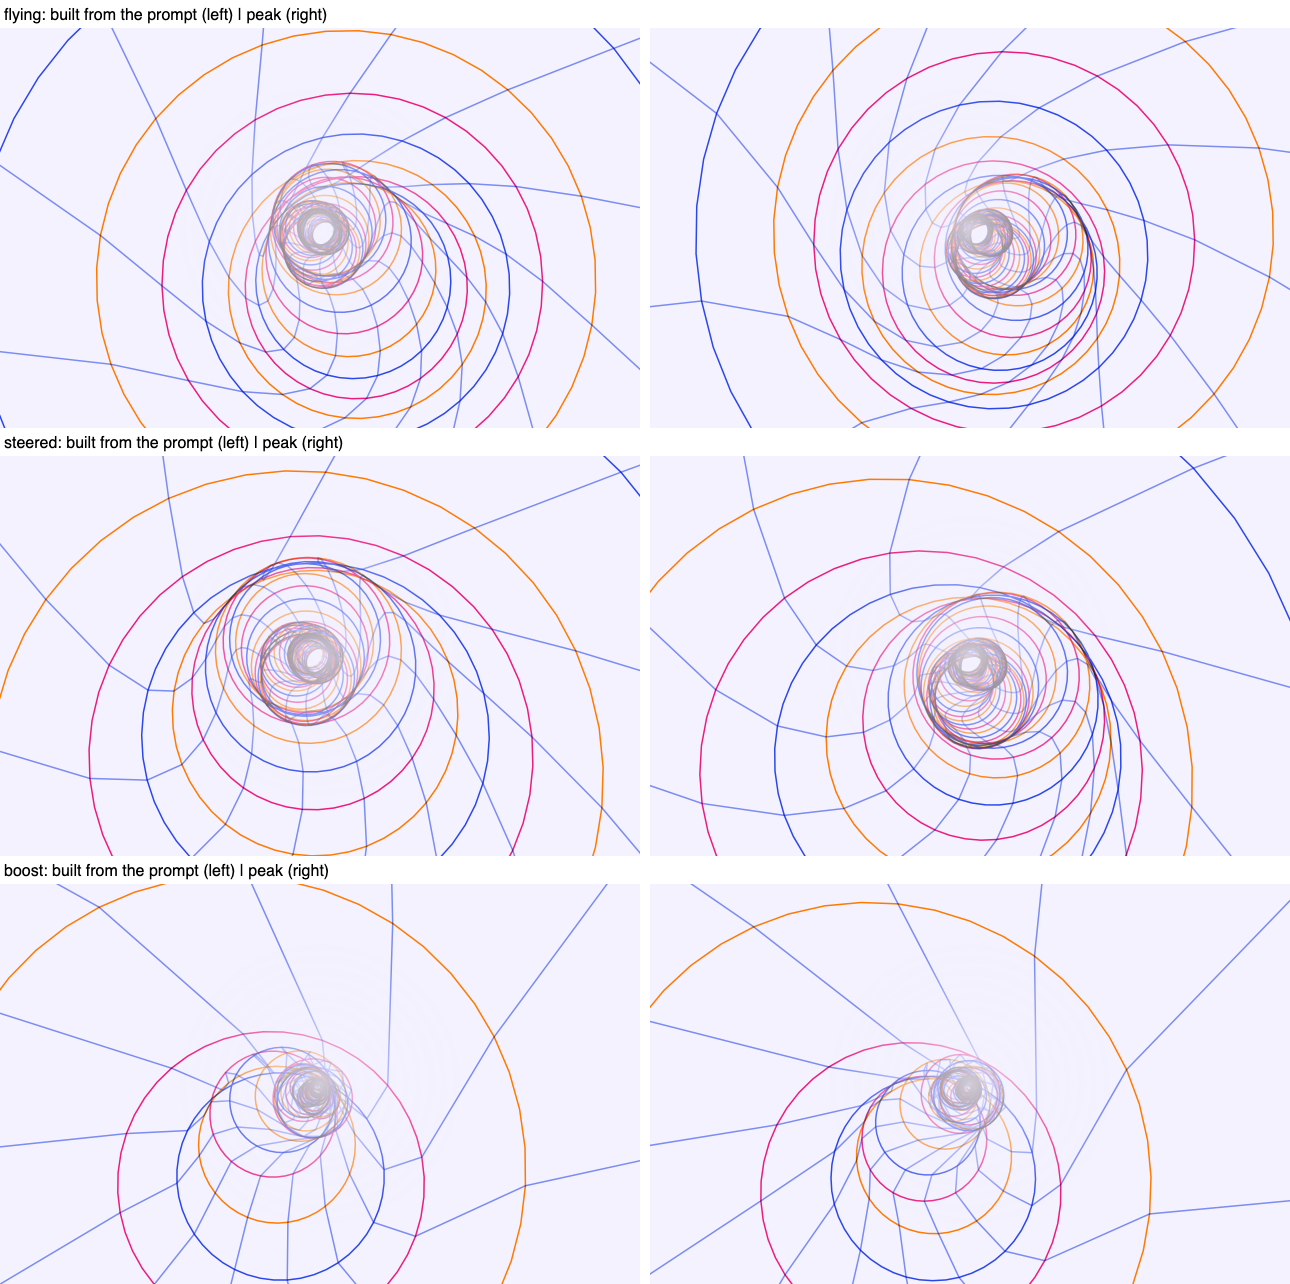
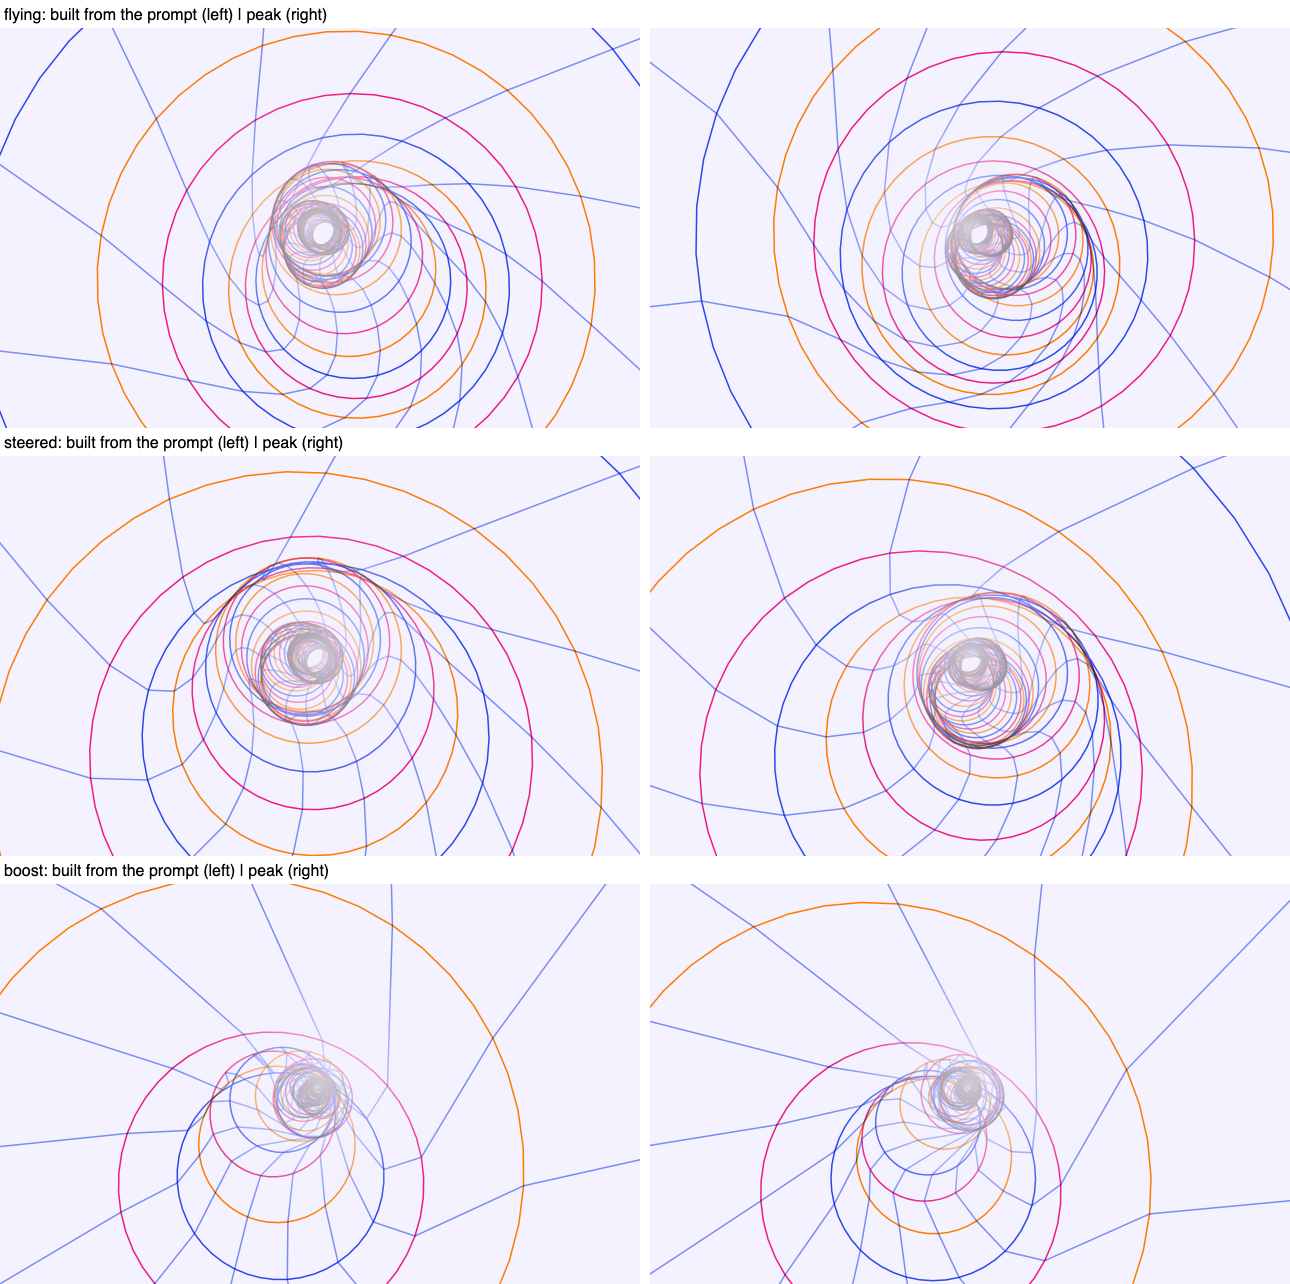
tests: wait for scene mount before checking touch-action; log run notes

diff --git a/tests/e2e/scenes.spec.ts b/tests/e2e/scenes.spec.ts
@@ -52,6 +52,10 @@ for (const slug of SCENES) {
 
     test('keeps vertical scrolling for touch', async ({ page }) => {
       await page.goto(`/dev/scenes?s=${slug}`);
+      // The scene sets this when it mounts, so wait for the mount instead of racing it.
+      await expect
+        .poll(() => page.evaluate(() => (window as any).__peak?.scheduler().registered ?? 0))
+        .toBeGreaterThan(0);
       const touchAction = await page.evaluate(
         () => getComputedStyle(document.querySelector('[data-stage]')!).touchAction,
       );

diff --git a/docs/DECISIONS.md b/docs/DECISIONS.md
@@ -382,3 +382,6 @@ Choices made on the 2026-10-18 overnight run, in the order they were made. Each 
 
 ## 2026-10-18: 9.6 Friend test kit
 `docs/TESTING_WITH_FRIENDS.md` (session script, four tasks with timings, quiet-observer rules, notes template, five-question survey) is linked from `README.md`. Checkpoint 9 (running the test) is the owner's.
+
+## 2026-10-18: end-of-run test notes (Wave 9, before launch)
+- Full e2e: 749 passed, 2 failed (both `flow`, desktop, under full load). One was a real test race: "keeps vertical scrolling for touch" read the stage's style before the scene had mounted. The test now waits for the mount (not a loosened check). The other, "destroy leaves no listeners behind", reported a console error I could not capture; it passed 3 more times alone and in a 2x repeat of the whole scenes file (424 of 424). Not reproduced; keep an eye on it.
